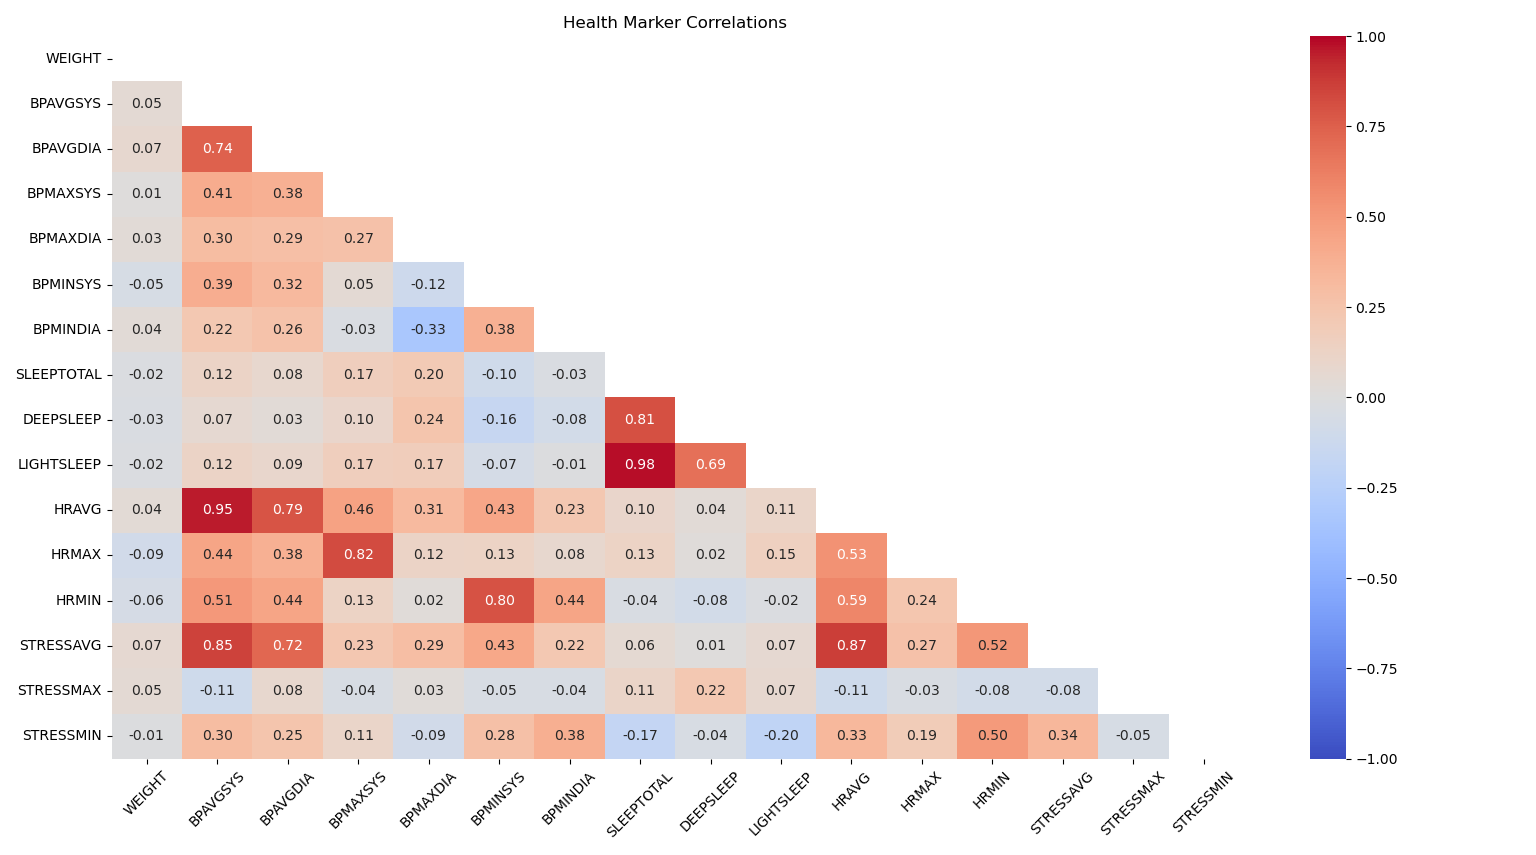
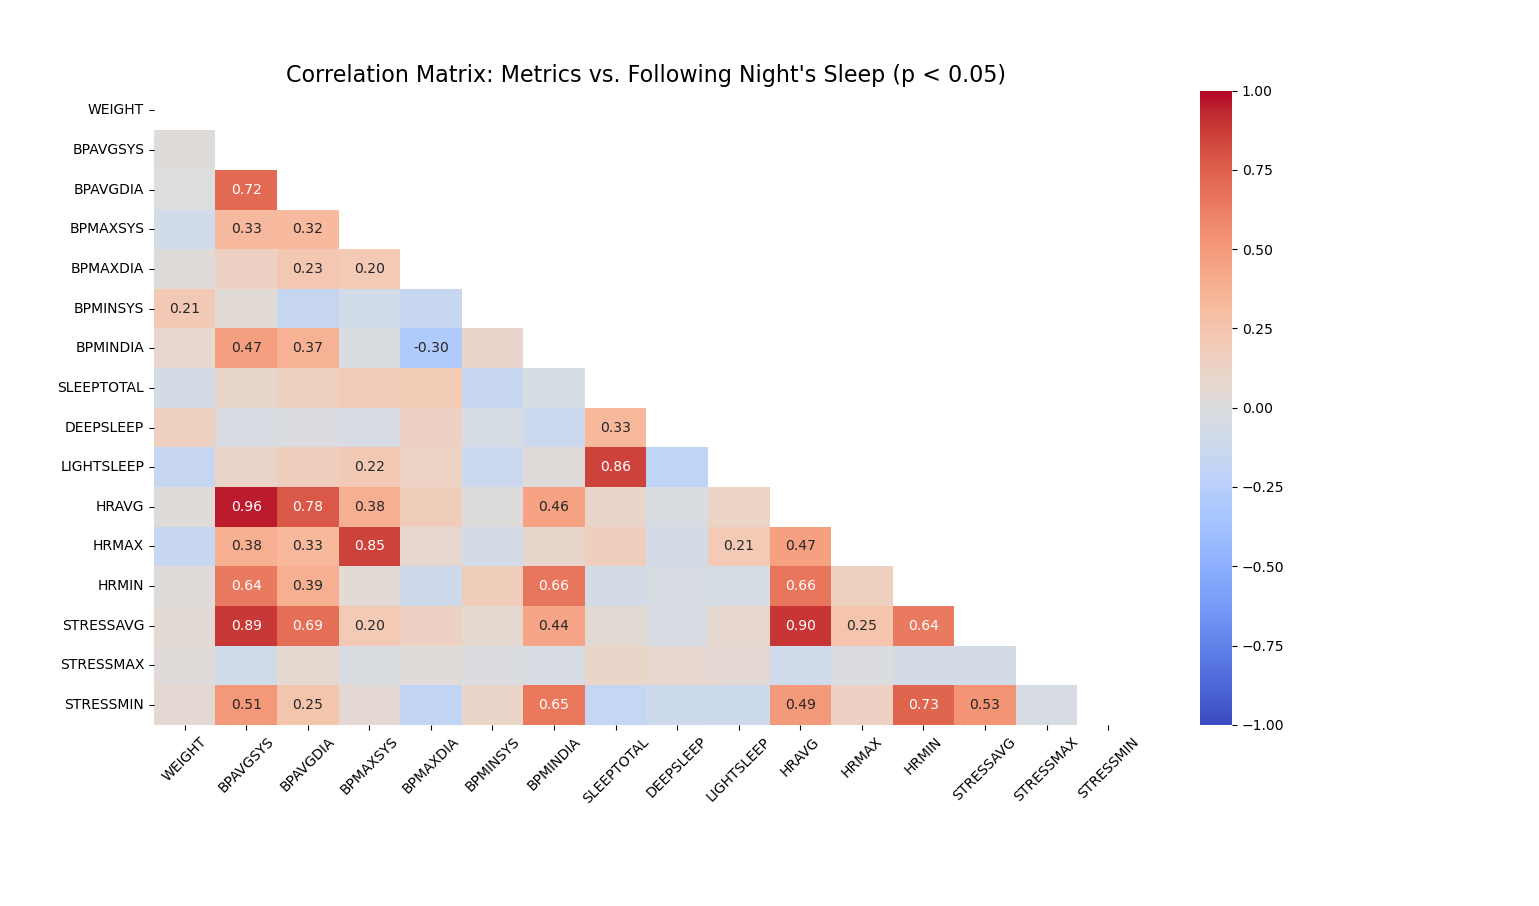
updates to health project (more data and new analysis)

diff --git a/content/pages/projects/project-two.md b/content/pages/projects/project-two.md
@@ -131,13 +131,17 @@ This is a plot of most of the variables I am tracking with histograms.  Most of 
 
 ![These are the overall distributions of the variables measured by me and by the watch](/images/overall_distributions.png)
 
-After this visual is closed, the next visual will be generated (the next line of code is executed in the Python script).  The next step in solving my original problem is the following visualization.  This visual is colored based on row, so each row has a highest value and a lowest value, with a color scale defined on the right which shows the highest and lowest values (yellow corresponding to high values, dark blue corresponding to low values).  As can be seen, maximum heart rate (standard deviation and interquartile range) and maximum systolic blood pressure (mean and 50%) are the highest values:
+After this visual is closed, the next visual will be generated (the next line of code is executed in the Python script).  The next step in solving my original problem is the following visualization.  This visual is colored based on row, so each row has a highest value and a lowest value, with a color scale defined on the right which shows the highest and lowest values (yellow corresponding to high values, dark blue corresponding to low values).  As can be seen, maximum heart rate (standard deviation and interquartile range) and maximum systolic blood pressure (mean and 50%) are the highest values.  This makes it easy to see which variables vary the most and the least:
 
 ![The colors are normalized by row based on the value inside the box (the highest numbers are yellow, the lowest numbers are dark blue)](/images/heatmap_normalized.png)
 
-Then the following is produced.  This a correlation table.  The darker the red color, the higher the positive correlation.  The darker the blue color, the lower the negative correlation.  As can be seen, there is a very strong positive correlation between heart rate, stress, and blood pressure.  These are apparently very tightly linked physiological indicators.  There is also a small negative correlation between sleep and stress levels:
+Then the following is produced.  This a correlation table.  The darker the red color, the higher the positive correlation.  The darker the blue color, the lower the negative correlation.  As can be seen, there is a very strong positive correlation between heart rate, stress, and blood pressure.  These are apparently very tightly linked physiological indicators.  The colors are shown for all possible correlations in the table but the numbers are only included if they are statistically significant:
 
 ![These are the correlations of the variables with each other, the more red the higher positive, the more blue the lower negative](/images/heatmap_correlations.png)
+
+When the previous night's sleep data is checked for relationship to health markers, something significant happens.  The effect of sleep becomes more manifest.  There is a modest negative correlation between previous night's sleep and many of the health markers, including stress levels and blood pressure.  This is not manifest in the previous correlation table because this table is based on *that night's* sleep, in other words, it checks to see how does the day's stress and blood pressure affect sleep that night.  The following graph checks to see how does the previous night affect the following day's blood pressure and stress level, and in this there is a modest but significant correlation.
+
+![Correlations for previous night's sleep](/images/correlation_matrix_previous_night.png)
 
 Lastly, a table is produced with ranges of the variables (this tells me how my health markers vary somewhat) and some other useful information.  To get the variance throughout the day, actually looking at the data in the software application on my smart phone is necessary and predictable trends are manifest, stress rises when I wake up, reaches a peak, and decreases towards bed time.  Blood pressure and heart rate share a similar pattern.  If I get sick or have a night of poor sleep, stress, blood pressure, and heart rate tend to be higher:
 
